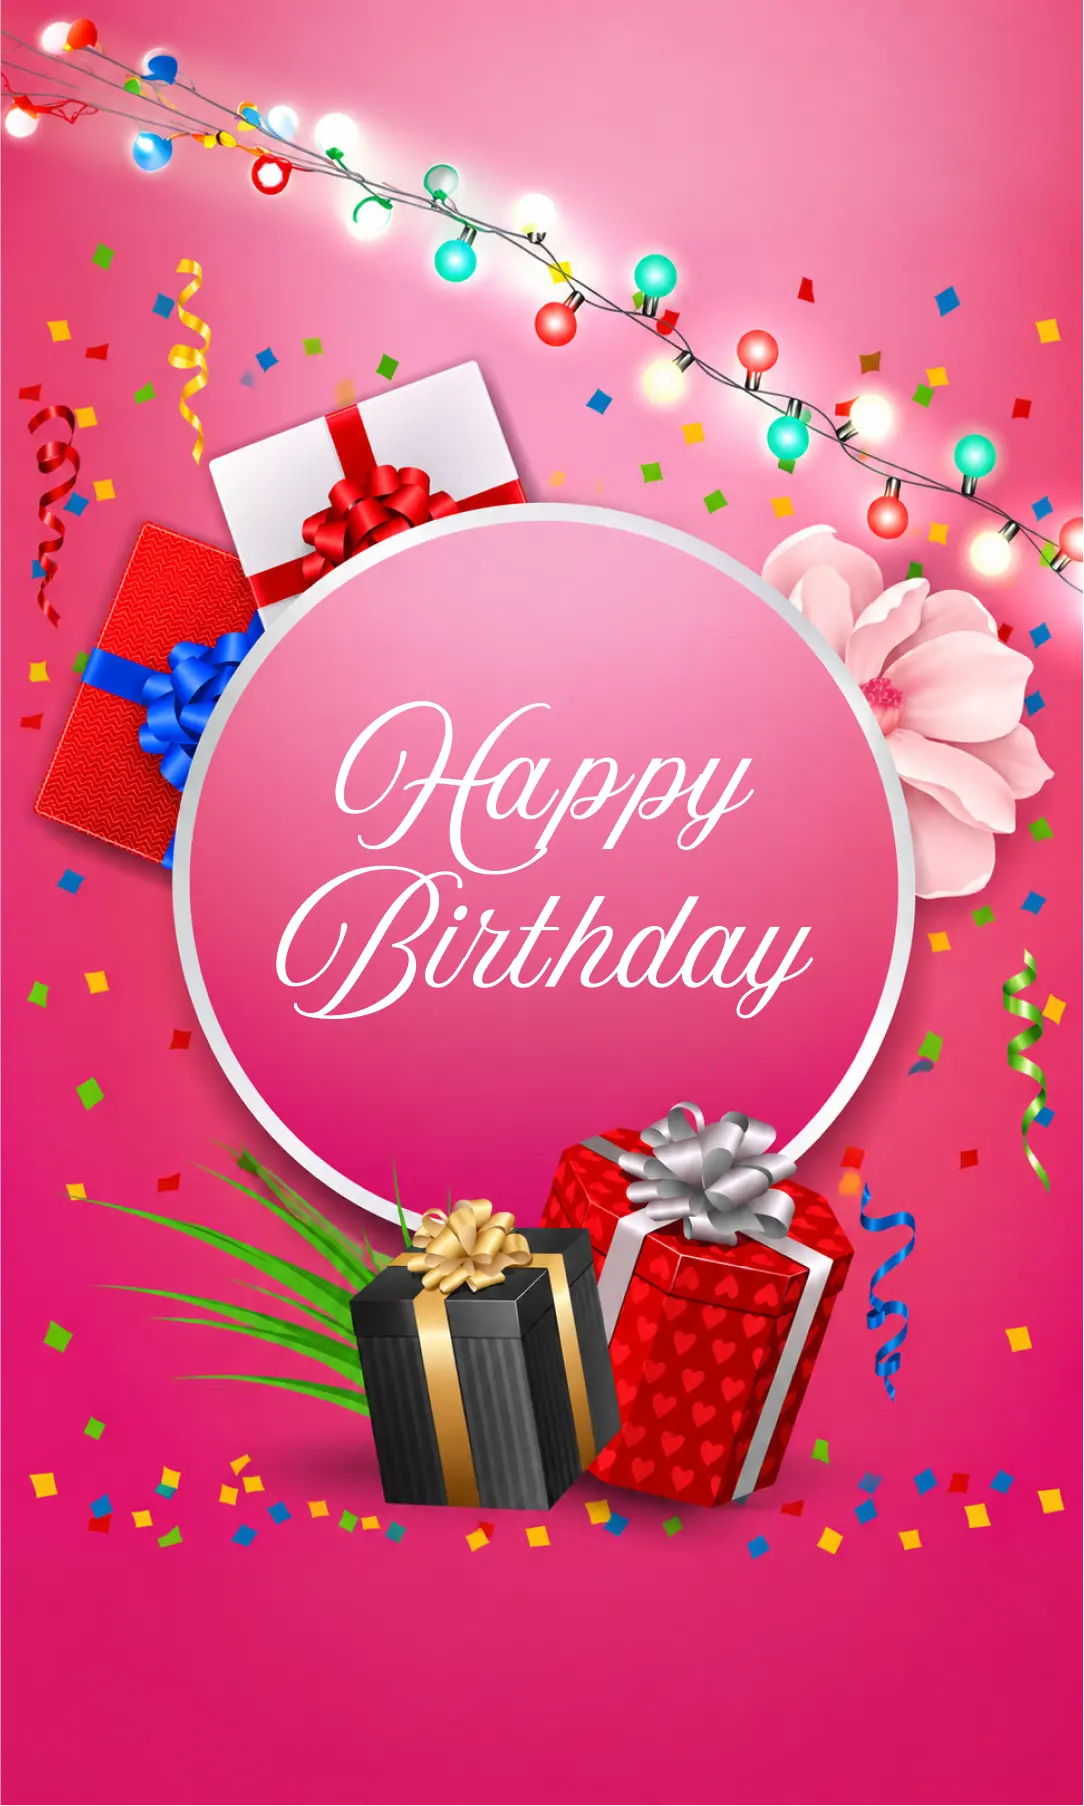
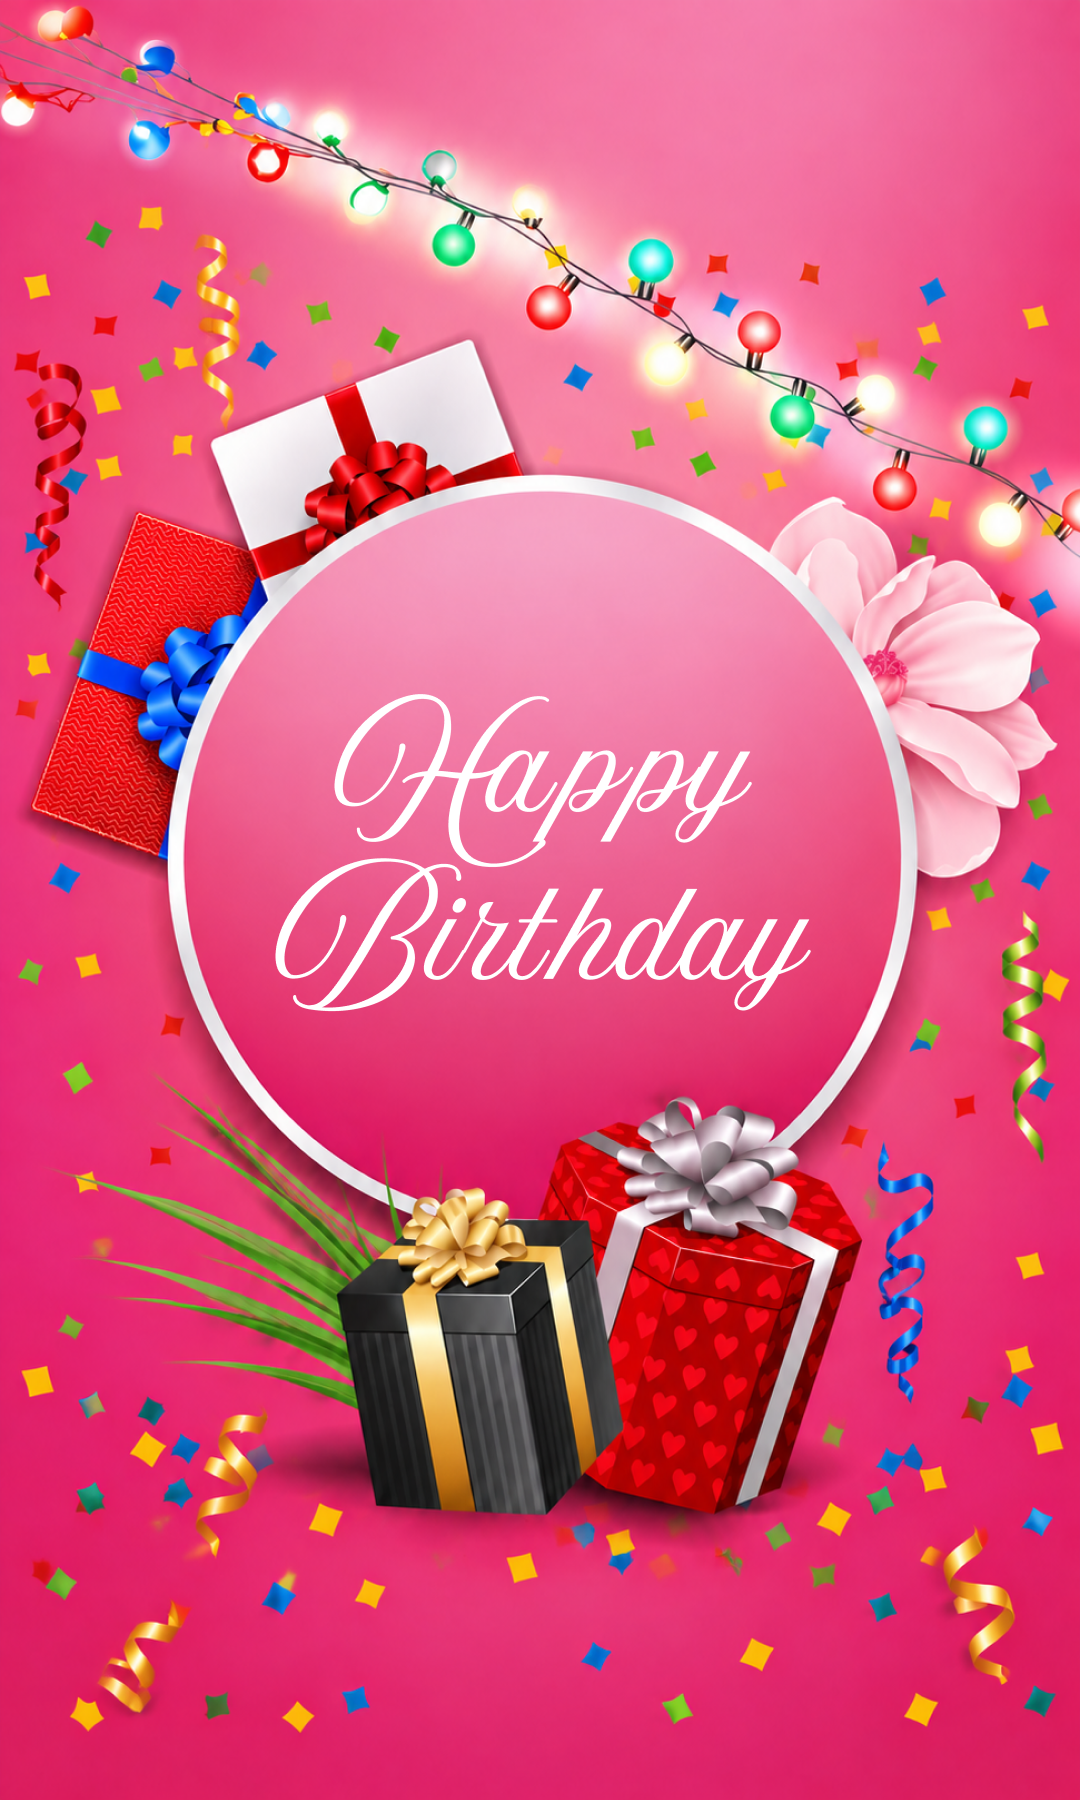
change colors to congratulations card

diff --git a/congratulations-04.html b/congratulations-04.html
@@ -13,9 +13,9 @@
     <style>
          :root {
             --bg-color: #f0f0f0;
-            --text-color: #33535c;
+            --text-color: #b00041;
             --red-text: #959595;
-            --gold-bright: #dbd0ab;
+            --gold-bright: #a4004d;
             --ink-dark: #070728;
             --black: #000000;
             --white: #FFFFFF;
@@ -489,7 +489,7 @@
             opacity: 0;
             filter: blur(12px);
             transform: scale(1.5);
-            text-shadow: 0 0 18px rgba(219, 208, 171, 0.9), 0 0 42px rgba(219, 208, 171, 0.6);
+            text-shadow: 0 0 18px rgba(164, 0, 77, 0.9), 0 0 42px rgba(164, 0, 77, 0.6);
             animation: inkIn 0.65s ease forwards;
         }
         
@@ -508,7 +508,7 @@
                 opacity: 1;
                 filter: blur(0);
                 transform: scale(1);
-                text-shadow: 0 0 9px rgba(219, 208, 171, 0.20), 0 0 24px rgba(219, 208, 171, 0.20);
+                text-shadow: 0 0 9px rgba(164, 0, 77, 0.20), 0 0 24px rgba(164, 0, 77, 0.20);
             }
         }
         
@@ -520,7 +520,7 @@
             height: 115px;
             transform: translate(-50%, -50%) rotate(-28deg);
             transform-origin: 50% 50%;
-            filter: drop-shadow(0 0 15px rgba(219, 208, 171, 0.85)) drop-shadow(0 0 30px rgba(219, 208, 171, 0.5));
+            filter: drop-shadow(0 0 15px rgba(164, 0, 77, 0.85)) drop-shadow(0 0 30px rgba(164, 0, 77, 0.5));
             pointer-events: none;
             opacity: 0;
             transition: left 0.14s ease-out, top 0.14s ease-out, opacity 0.6s ease;

diff --git a/congratulations-05.html b/congratulations-05.html
@@ -15,7 +15,7 @@
             --bg-color: #fffdfb;
             --text-color: #b21f3b;
             --red-text: #959595;
-            --gold-bright: #efb7b9;
+            --gold-bright: #bb565a;
             --ink-dark: #070728;
             --black: #000000;
             --white: #FFFFFF;
@@ -489,7 +489,7 @@
             opacity: 0;
             filter: blur(12px);
             transform: scale(1.5);
-            text-shadow: 0 0 18px rgba(239, 183, 185, 0.9), 0 0 42px rgba(239, 183, 185, 0.6);
+            text-shadow: 0 0 18px rgba(187, 86, 90, 0.9), 0 0 42px rgba(187, 86, 90, 0.6);
             animation: inkIn 0.65s ease forwards;
         }
         
@@ -508,7 +508,7 @@
                 opacity: 1;
                 filter: blur(0);
                 transform: scale(1);
-                text-shadow: 0 0 9px rgba(239, 183, 185, 0.20), 0 0 24px rgba(239, 183, 185, 0.20);
+                text-shadow: 0 0 9px rgba(187, 86, 90, 0.20), 0 0 24px rgba(187, 86, 90, 0.20);
             }
         }
         
@@ -520,7 +520,7 @@
             height: 115px;
             transform: translate(-50%, -50%) rotate(-28deg);
             transform-origin: 50% 50%;
-            filter: drop-shadow(0 0 15px rgba(239, 183, 185, 0.85)) drop-shadow(0 0 30px rgba(239, 183, 185, 0.5));
+            filter: drop-shadow(0 0 15px rgba(187, 86, 90, 0.85)) drop-shadow(0 0 30px rgba(187, 86, 90, 0.5));
             pointer-events: none;
             opacity: 0;
             transition: left 0.14s ease-out, top 0.14s ease-out, opacity 0.6s ease;

diff --git a/congratulations-01.html b/congratulations-01.html
@@ -15,7 +15,7 @@
             --bg-color: #f3e4e3;
             --text-color: #78486e;
             --red-text: #959595;
-            --gold-bright: #ecb485;
+            --gold-bright: #623a59;
             --ink-dark: #070728;
             --black: #000000;
             --white: #FFFFFF;
@@ -489,7 +489,7 @@
             opacity: 0;
             filter: blur(12px);
             transform: scale(1.5);
-            text-shadow: 0 0 18px rgba(236, 180, 133, 0.9), 0 0 42px rgba(236, 180, 133, 0.6);
+            text-shadow: 0 0 18px rgba(98, 58, 89, 0.9), 0 0 42px rgba(98, 58, 89, 0.6);
             animation: inkIn 0.65s ease forwards;
         }
         
@@ -508,7 +508,7 @@
                 opacity: 1;
                 filter: blur(0);
                 transform: scale(1);
-                text-shadow: 0 0 9px rgba(236, 180, 133, 0.20), 0 0 24px rgba(236, 180, 133, 0.20);
+                text-shadow: 0 0 9px rgba(98, 58, 89, 0.20), 0 0 24px rgba(98, 58, 89, 0.20);
             }
         }
         
@@ -520,7 +520,7 @@
             height: 115px;
             transform: translate(-50%, -50%) rotate(-28deg);
             transform-origin: 50% 50%;
-            filter: drop-shadow(0 0 15px rgba(236, 180, 133, 0.85)) drop-shadow(0 0 30px rgba(236, 180, 133, 0.5));
+            filter: drop-shadow(0 0 15px rgba(98, 58, 89, 0.85)) drop-shadow(0 0 30px rgba(98, 58, 89, 0.5));
             pointer-events: none;
             opacity: 0;
             transition: left 0.14s ease-out, top 0.14s ease-out, opacity 0.6s ease;

diff --git a/congratulations-02.html b/congratulations-02.html
@@ -15,7 +15,7 @@
             --bg-color: #f6ecdd;
             --text-color: #413e19;
             --red-text: #959595;
-            --gold-bright: #eccd9e;
+            --gold-bright: #5c5931;
             --ink-dark: #070728;
             --black: #000000;
             --white: #FFFFFF;
@@ -489,7 +489,7 @@
             opacity: 0;
             filter: blur(12px);
             transform: scale(1.5);
-            text-shadow: 0 0 18px rgba(236, 205, 158, 0.9), 0 0 42px rgba(236, 205, 158, 0.6);
+            text-shadow: 0 0 18px rgba(92, 89, 49, 0.9), 0 0 42px rgba(92, 89, 49, 0.6);
             animation: inkIn 0.65s ease forwards;
         }
         
@@ -508,7 +508,7 @@
                 opacity: 1;
                 filter: blur(0);
                 transform: scale(1);
-                text-shadow: 0 0 9px rgba(236, 205, 158, 0.20), 0 0 24px rgba(236, 205, 158, 0.20);
+                text-shadow: 0 0 9px rgba(92, 89, 49, 0.20), 0 0 24px rgba(92, 89, 49, 0.20);
             }
         }
         
@@ -520,7 +520,7 @@
             height: 115px;
             transform: translate(-50%, -50%) rotate(-28deg);
             transform-origin: 50% 50%;
-            filter: drop-shadow(0 0 15px rgba(236, 205, 158, 0.85)) drop-shadow(0 0 30px rgba(236, 205, 158, 0.5));
+            filter: drop-shadow(0 0 15px rgba(92, 89, 49, 0.85)) drop-shadow(0 0 30px rgba(92, 89, 49, 0.5));
             pointer-events: none;
             opacity: 0;
             transition: left 0.14s ease-out, top 0.14s ease-out, opacity 0.6s ease;
